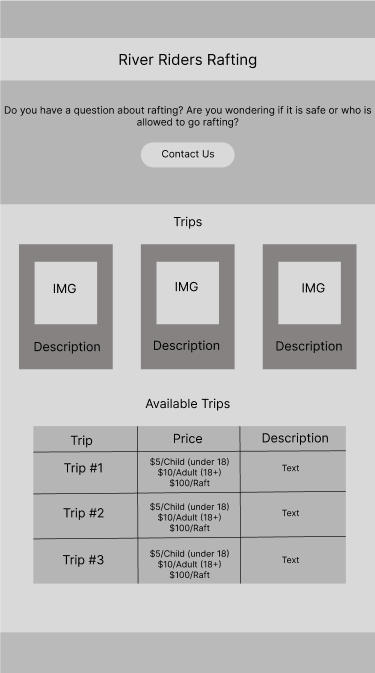
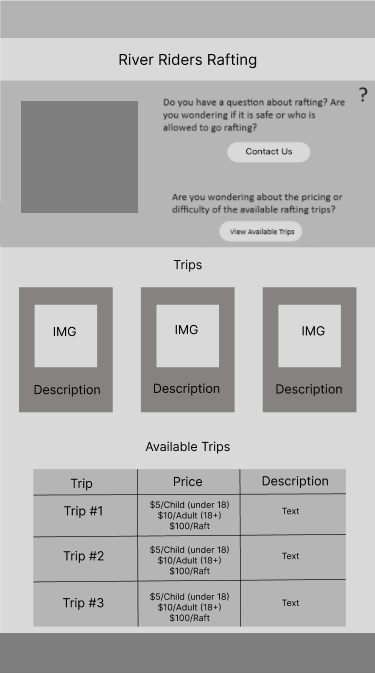
week 6 home page version 1

diff --git a/wwr/styles/rafting.css b/wwr/styles/rafting.css
@@ -38,6 +38,47 @@ p {
     padding: 20px;
 }
 
+/* Used on multiple pages*/
+.call-to-action {
+    box-sizing: border-box;
+    padding: 2rem;
+    background-color: var(--tertiary-color);
+    display: flex;
+    justify-content: center;
+    align-items: center;
+    flex-direction: column;
+    position: relative;
+}
+.call-to-action .question-mark {
+    position: absolute;
+    top: 0;
+    right: 1rem;
+    font-size: 4rem;
+    font-weight: 700;
+    font-family: var(--heading-font);
+    color: var(--accent2-color);
+    text-shadow: 2px 2px 6px #000;
+    user-select: none;
+}
+.call-to-action h3 {
+    margin-inline: 4rem;
+    text-align: center;
+}
+.call-to-action a {
+    display: block;
+    text-decoration: none;
+    padding: 0.5rem 1rem;
+    background-color: var(--accent2-color);
+    border: 2px solid #888;
+    border-radius: 1rem;
+    font-weight: 700;
+    text-align: center;
+    width: fit-content;
+}
+.call-to-action a:hover {
+    transform: scale(1.1);
+}
+
 /* header */
 header {
     display: grid;
@@ -47,7 +88,6 @@ header {
     padding-inline: 2rem;
     padding-block: 1rem;
     background-color: var(--secondary-color);
-    margin-bottom: 1rem;
 }
 header img {
     max-width: 50px;
@@ -281,7 +321,7 @@ article > img {
 .form-message-block input[type=radio] {
     margin-left: 2rem;
 }
-button[type=submit] {
+.user-form button[type=submit] {
     align-self: center;
     margin-top: 1rem;
     width: 200px;
@@ -295,7 +335,7 @@ button[type=submit] {
 .form-element textarea {
     width: 100%;
 }
-button[type=submit]:hover::after {
+.user-form button[type=submit]:hover::after {
     content: '';
     display: block;
     position: absolute;
@@ -307,28 +347,6 @@ button[type=submit]:hover::after {
 }
 
 /* trips.html */
-.call-to-action {
-    box-sizing: border-box;
-    padding: 2rem;
-    background-color: var(--tertiary-color);
-    display: flex;
-    justify-content: center;
-    align-items: center;
-    flex-direction: column;
-}
-.call-to-action a {
-    display: block;
-    text-decoration: none;
-    padding: 0.5rem 1rem;
-    background-color: var(--accent2-color);
-    border: 2px solid #888;
-    border-radius: 1rem;
-    font-weight: 700;
-}
-.call-to-action a:hover {
-    transform: scale(1.1);
-}
-
 .trips-description-container {
     display: flex;
     justify-content: center;
@@ -363,12 +381,21 @@ button[type=submit]:hover::after {
     top: calc(100% - 40px);
     transition: top 1s;
 }
-.trip-description-element:hover .trip-description-text {
+.trip-description-element .trip-description-text:hover {
     top: 0;
+}
+.trip-description-text .arrow {
+    border-inline: 6px solid transparent;
+    border-bottom: 4px solid #888;
+    margin-top: 0.5rem;
+    opacity: 0; /* hidden by default */
+    transition: opacity 0.5s;
+}
+.trip-description-text:not(:hover) .arrow {
+    opacity: 1;
 }
 .trip-description-element h3 {
     margin: 0;
-    margin-top: 0.5rem;
     margin-bottom: 0.5rem;
     padding: 0;
 }
@@ -377,8 +404,22 @@ button[type=submit]:hover::after {
     margin-bottom: 0.5rem;
     padding-block: 0;
     padding-inline: 0.5rem;
-    font-size: 0.8rem;
+    font-size: 0.9rem;
     text-align: center;
+}
+.trips-main .call-to-action {
+    flex-direction: row;
+}
+.trips-main .call-to-action .call-to-action-container {
+    display: flex;
+    flex-direction: column;
+    align-items: center;
+}
+.call-to-action-img {
+    width: 40%;
+    height: auto;
+    border: 1px solid #0008;
+    border-radius: 1rem;
 }
 
 th, td, table {
@@ -409,4 +450,111 @@ th, td, table {
 }
 .available-trips td {
     border: 1px solid var(--primary-color);
+}
+
+/* index.html */
+.home-main {
+    display: grid;
+    grid-template-columns: 50% 50%;
+}
+.home-heading {
+    grid-column: 1/3;
+    grid-row: 1/2;
+
+    background-image: url('../images/home-heading.jpg');
+    background-repeat: no-repeat;
+    background-size: cover;
+    background-position: 0 -15rem;
+    width: 100%;
+    height: 300px;
+    display: flex;
+    align-items: center;
+}
+.home-heading h1 {
+    font-size: 3rem;
+    width: 100%;
+    background-color: #aaa7;
+    box-sizing: border-box;
+    padding: 1rem;
+}
+.newsletter-signup {
+    grid-column: 1/2;
+    grid-row: 2/3;
+
+    box-sizing: border-box;
+    padding: 1rem;
+    background-color: #eee;
+    border: 1px solid #0004;
+
+    display: flex;
+    flex-direction: column;
+    justify-content: center;
+    gap: 2rem;
+}
+.newsletter-signup form {
+    display: flex;
+    flex-direction: column;
+    align-items: center;
+    gap: 0.8rem;
+}
+.newsletter-signup button[type=submit] {
+    background-color: var(--accent1-color);
+    border-radius: 0.5rem;
+    padding: 0.4rem;
+}
+.newsletter-signup button[type=submit]:hover {
+    transform: scale(1.1);
+}
+.home-main .call-to-action {
+    grid-column: 1/3;
+    grid-row: 3/4;
+    flex-direction: row;
+    border: 1px solid #0004;
+}
+.home-main .call-to-action .call-to-action-container {
+    display: flex;
+    flex-direction: row;
+    justify-content: space-around;
+}
+.home-main .call-to-action .call-to-action-element {
+    width: 30%;
+    display: flex;
+    flex-direction: column;
+    align-items: center;
+}
+.home-main .call-to-action h3 {
+    margin-inline: 0;
+}
+.home-main .call-to-action a {
+    padding: 0.5rem 1rem;
+    text-align: center;
+}
+
+.rafting-purpose {
+    background-color: #eee;
+    box-sizing: border-box;
+    border: 1px solid #0004;
+    padding: 1rem;
+    display: grid;
+    grid-template-columns: 40% 60%;
+}
+.rafting-purpose h2 {
+    grid-column: 1/3;
+}
+.rafting-purpose-element {
+    box-sizing: border-box;
+    margin: 0.5rem;
+    background-color: var(--tertiary-color);
+    padding: 1rem;
+    border: 1px solid #000a;
+}
+.rafting-purpose p {
+    margin: 0;
+    padding: 0;
+    font-size: 0.8rem;
+}
+.rafting-purpose img {
+    width: 100%;
+    height: auto;
+    border: 1px solid #0008;
 }

diff --git a/wwr/index.html b/wwr/index.html
@@ -1,0 +1,75 @@
+<!DOCTYPE html>
+<html lang="en-US">
+<head>
+    <meta charset="utf-8">
+    <meta name="viewport" content="width=device-width, initial-scale=1.0">
+    <title>Home | River Riders Rafting</title>
+    <meta name="description" content="Home page for white water rafting project">
+    <meta name="author" content="Benjamin Johansen">
+    <link rel="stylesheet" href="styles/rafting.css">
+</head>
+<body>
+    <header>
+        <img src="images/logo.png" alt="Logo">
+        <nav>
+            <a href="index.html">Home</a>
+            <a href="about.html">About Us</a>
+            <a href="trips.html">Trips</a>
+            <a href="contact.html">Contact Us</a>
+        </nav>
+    </header>
+    <main class="home-main">
+        <section class="home-heading">
+            <h1>River Riders Rafting</h1>
+        </section>
+        <section class="newsletter-signup">
+            <h2>Sign Up For The Monthly Newsletter</h2>
+            <form>
+                <div class="form-element">
+                    <label for="form-name">Your Name: </label>
+                    <input type="text" name="form-name" id="form-name" required>
+                </div>
+                <div class="form-element">
+                    <label for="form-email">Your Email: </label>
+                    <input type="email" name="form-email" id="form-email" required>
+                </div>
+                <button type="submit">Sign Up</button>
+            </form>
+        </section>
+        <section class="call-to-action">
+            <h2 hidden>Call To Action</h2>
+            <div class="question-mark">?</div>
+            <div class="call-to-action-container">
+                <div class="call-to-action-element">
+                    <h3>Do you want to do white water rafting?</h3>
+                    <a href="trips.html">See Available Trips</a>
+                </div>
+                <div class="call-to-action-element">
+                    <h3>Do you have questions about rafting?</h3>
+                    <a href="contact.html">Contact Us</a>
+                </div>
+            </div>
+        </section>
+        <section class="rafting-purpose">
+            <h2>Our goal it to provide a safe and enjoyable time for people who want to go rafting and meet the safety requirements.</h2>
+            <div class="rafting-purpose-element">
+                <img src="images/rafting-equipment.jpg" alt="Rafting Equipment">
+                <p>Rafts, paddles, life jackets and other equipment are provided, to allow for people to participate in rafting without buying their own raft or equipment.</p>
+            </div>
+            <div class="rafting-purpose-element">
+                <img src="images/rafting-group.jpg" alt="Rafting Group">
+                <p>We provide a rafting instructor to teach a short lesson about rafting, before anyone gets on the river, to create a safe rafting trip for everyone in the group.</p>
+            </div>
+        </section>
+    </main>
+    <footer>
+        <p>&copy;2024 | River Riders Rafting | Benjamin Johansen</p>
+        <nav class="media-links">
+            <a href="https://facebook.com"><img class="media-logo" src="images/facebook-icon.png" alt="Facebook"></a>
+            <a href="https://twitter.com"><img class="media-logo" src="images/twitter-icon.png" alt="Twitter"></a>
+            <a href="https://instagram.com"><img class="media-logo" src="images/instagram-icon.png" alt="Instagram"></a>
+            <a href="images/home-wireframe.png" class="wireframe-link">Wireframe</a>
+        </nav>
+    </footer>
+</body>
+</html>

diff --git a/wwr/trips.html b/wwr/trips.html
@@ -18,14 +18,18 @@
             <a href="contact.html">Contact Us</a>
         </nav>
     </header>
-    <main>
+    <main class="trips-main">
         <h1>River Riders Rafting</h1>
         <section class="call-to-action">
-            <h2 hidden>Call to Action</h2>
-            <h3>Do you have a question about rafting? Are you wondering if it is safe or who is allowed to go rafting?</h3>
-            <a href="contact.html">Contact Us</a>
-            <h3>Are you wondering about the pricing or difficulty of the available rafting trips?</h3>
-            <a href="#available-trips">View Available Trips</a>
+            <img src="images/rafting-trip.jpg" alt="Rafting Trip" class="call-to-action-img">
+            <div class="call-to-action-container">
+                <h2 hidden>Call to Action</h2>
+                <div class="question-mark">?</div>
+                <h3>Do you have a question about rafting? Are you wondering if it is safe or who is allowed to go rafting?</h3>
+                <a href="contact.html">Contact Us</a>
+                <h3>Are you wondering about the pricing or difficulty of the available rafting trips?</h3>
+                <a href="#available-trips">View Available Trips</a>
+            </div>
         </section>
         <section class="trips-description">
             <h2>Trips</h2>
@@ -35,6 +39,7 @@
                         <img src="images/trip-description-1.jpg" alt="">
                     </div>
                     <div class="trip-description-text">
+                        <div class="arrow"></div>
                         <h3>Trip #1</h3>
                         <p>This rafting trip is a class 3 trip. It contains almost constant rapids that can be big enough to flip a raft if the raft is sideways when it hits the rapid. It is safe for people who are experienced with rafting, as long as they follow the rules.</p>
                     </div>
@@ -44,6 +49,7 @@
                         <img src="images/trip-description-2.jpg" alt="">
                     </div>
                     <div class="trip-description-text">
+                        <div class="arrow"></div>
                         <h3>Trip #2</h3>
                         <p>This rafting trip is a class 2 trip with some occasional class 3 rapids. About two thirds of the section is rapids, but most of the rapids are safe to go over. It is safe for almost everyone to do this trip, but it is recommended that someone experienced is there to guide beginners.</p>
                     </div>
@@ -53,6 +59,7 @@
                         <img src="images/trip-description-3.jpg" alt="">
                     </div>
                     <div class="trip-description-text">
+                        <div class="arrow"></div>
                         <h3>Trip #3</h3>
                         <p>This trip is a class 1 trip. It has almost no rapids and should be safe for anyone. It is meant for people who aren't comfortable with rafting on more dangerous rivers.</p>
                     </div>
